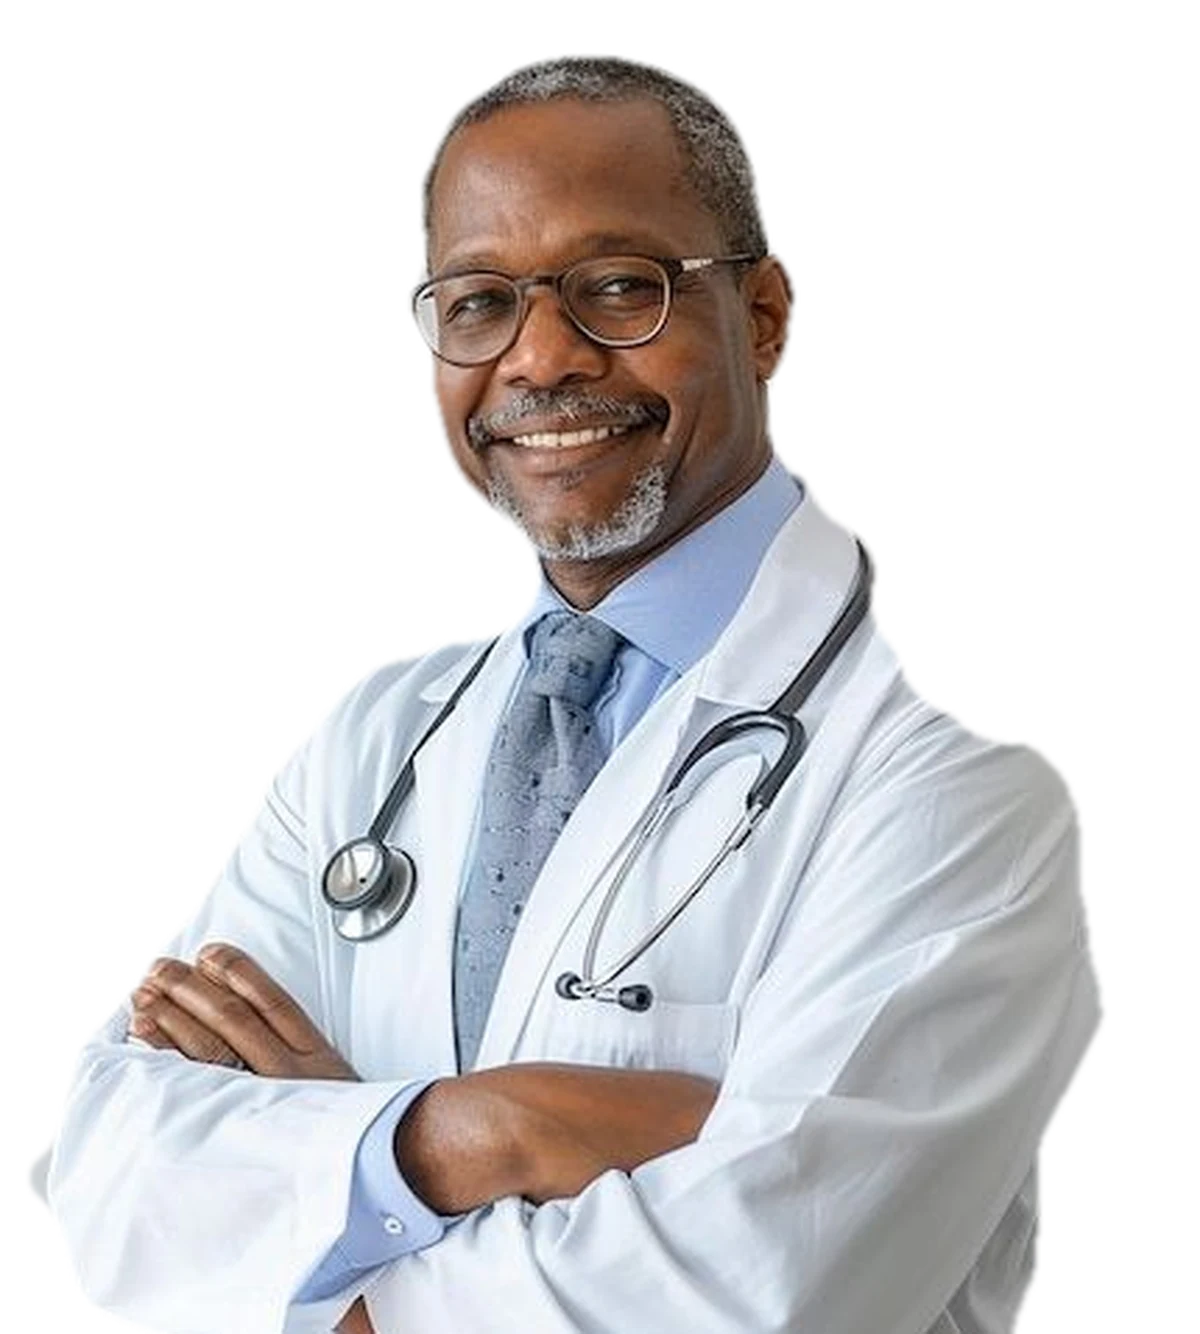
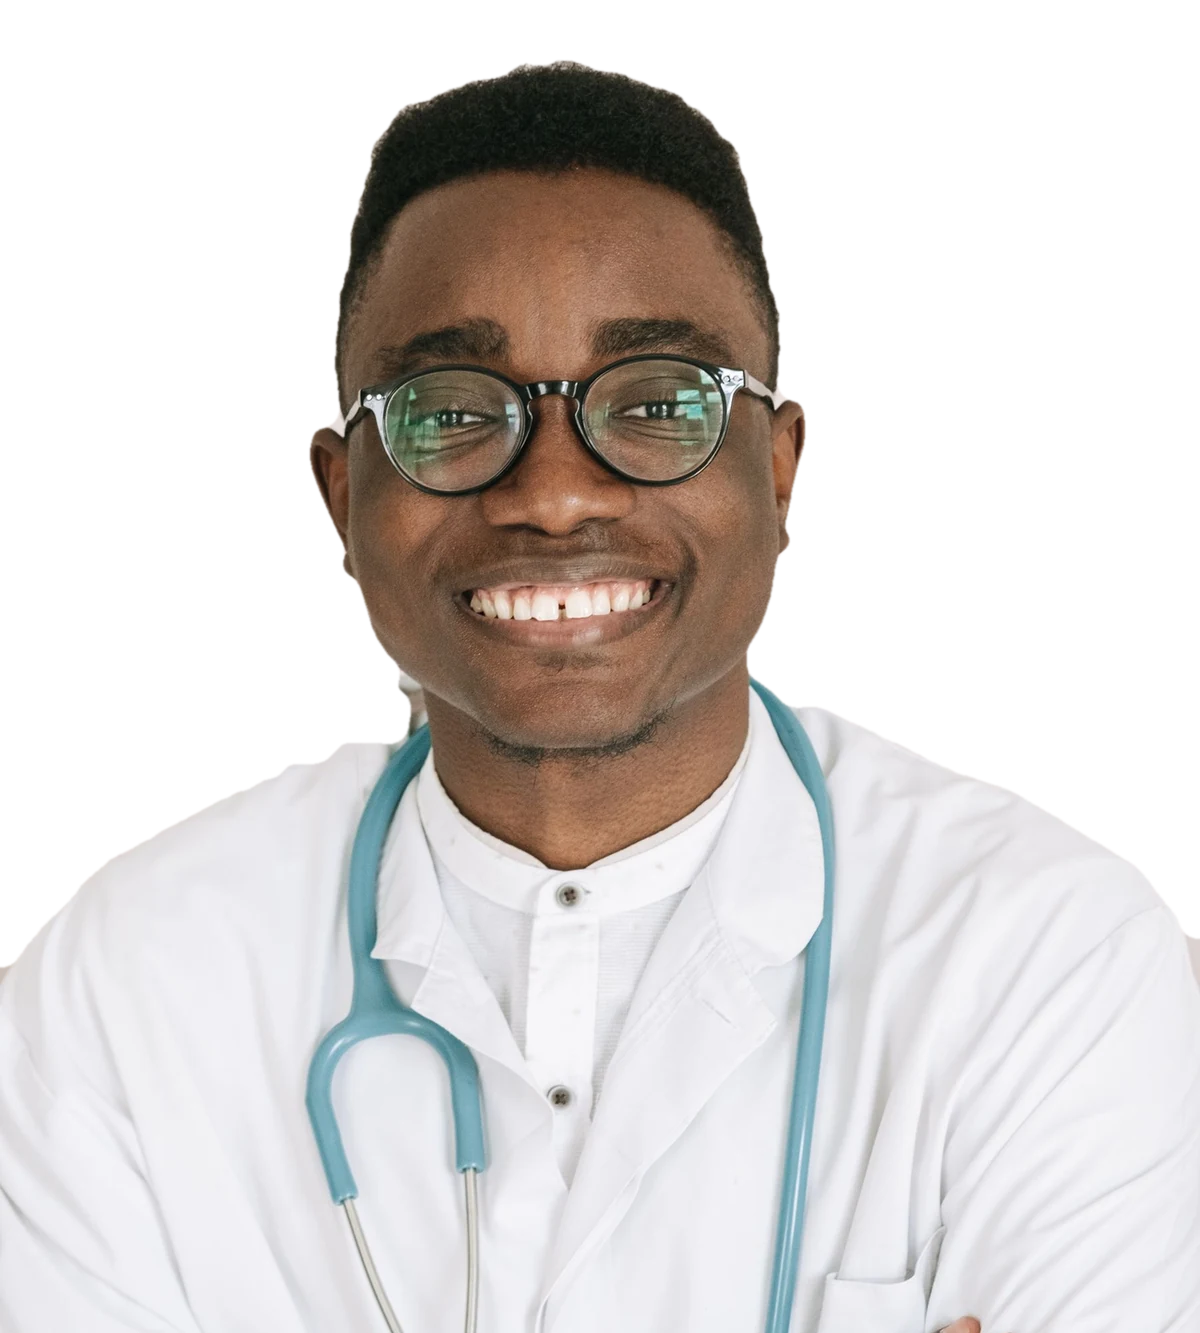
Calendrier a plat, panneau de risque, titres de Mon cycle, dates de l'accueil
Demandes d'Arthur du 13 octobre 2026.

LE CALENDRIER, A PLAT
« J'ai l'impression que tout est lisse et brillant, je veux une page normale. »
Plus de degrades, d'ombres, de halo qui respire, ni de rebonds a l'arrivee.
Icones en aplat (variante `plat` de GoutteJour et BebeJour). La periode
fertile est une bande lilas, le bebe n'est plus que sur le jour d'ovulation,
les autres dates sont ordinaires, sans bande ni couleur.

Arthur avait dit « vert ». Le vert veut dire « risque plus faible » partout
ailleurs (accueil, jauge, avertissement) : le poser sur la periode fertile
aurait inverse son sens. Il a choisi le lilas, deja celui de l'anneau de
Mon cycle.

L'AVERTISSEMENT CONTRACEPTION, REECRIT
Il disait « les jours verts indiquent un risque plus faible » et le calendrier
n'a plus de jours verts. Il dit maintenant que les jours en lilas sont ceux ou
une grossesse est possible, et que les autres jours ne sont pas sans risque.
Obligatoire, toujours sur le calendrier et sur Mon cycle. Les deux morceaux en
gras n'ont pas bouge.

MON CYCLE
Les titres des cartes de dates en grand, les dates en petit. Le risque de
grossesse est un panneau : titre et mot en grand, signal d'alerte, rouge quand
le risque est eleve, orange quand il est moyen, vert doux quand il est faible
(un panneau rouge sur un risque faible ferait crier au loup).

ACCUEIL
Les dates de la bande ouvrent le calendrier sur le jour touche, avec sa fiche.

PHOTO DU MEDECIN HOMME
[…]

diff --git a/src/styles/calendrier.css b/src/styles/calendrier.css
@@ -27,12 +27,12 @@
   --cal-ink: #2a1a2e;
   --cal-muted: #9a8c9d;
   --cal-line: #f1e6eb;
-  --rayon-carte: 30px;
-  --ombre-carte: 0 18px 40px -18px rgba(150, 40, 80, 0.28), 0 2px 6px rgba(150, 40, 80, 0.06);
+  --rayon-carte: 22px;
+  --ombre-carte: none;
   --hauteur-case: 56px;
   --ressort: cubic-bezier(0.34, 1.56, 0.64, 1);
 
-  background: #fcf1f4;
+  background: var(--fond);
   color: var(--cal-ink);
   min-height: 100vh;
 }
@@ -52,12 +52,7 @@
   padding: 12px 14px;
   border-radius: 20px;
   background: var(--cal-card);
-  box-shadow: 0 6px 18px -12px rgba(150, 40, 80, 0.35);
-  animation: cal-monte 0.5s ease both;
-}
-
-.cal-resume-carte:nth-child(2) {
-  animation-delay: 0.08s;
+  border: 1px solid var(--cal-line);
 }
 
 .cal-resume-carte svg {
@@ -93,9 +88,8 @@
   padding: 20px 14px 18px;
   border-radius: var(--rayon-carte);
   background: var(--cal-card);
-  box-shadow: var(--ombre-carte);
+  border: 1px solid var(--cal-line);
   overflow: hidden;
-  animation: cal-monte 0.55s 0.1s ease both;
 }
 
 .cal-marque {
@@ -132,13 +126,13 @@
   height: 44px;
   border: none;
   border-radius: 50%;
-  background: #fbf3f6;
+  background: var(--surface-douce);
   color: var(--cal-ink);
   cursor: pointer;
 }
 
 .cal-fleche:hover {
-  background: #f6e9ef;
+  background: var(--cal-line);
 }
 
 .cal-jours-noms {
@@ -184,18 +178,7 @@
   z-index: 2;
   display: grid;
   place-items: center;
-  animation: cal-pop 0.45s var(--ressort) both;
 }
-
-/* Le décalage en cascade, sans attribut style : une règle par colonne de la
-   grille suffit à donner l'impression d'une vague. */
-.cal-grille > *:nth-child(7n + 1) .cal-icone { animation-delay: 20ms; }
-.cal-grille > *:nth-child(7n + 2) .cal-icone { animation-delay: 40ms; }
-.cal-grille > *:nth-child(7n + 3) .cal-icone { animation-delay: 60ms; }
-.cal-grille > *:nth-child(7n + 4) .cal-icone { animation-delay: 80ms; }
-.cal-grille > *:nth-child(7n + 5) .cal-icone { animation-delay: 100ms; }
-.cal-grille > *:nth-child(7n + 6) .cal-icone { animation-delay: 120ms; }
-.cal-grille > *:nth-child(7n + 7) .cal-icone { animation-delay: 140ms; }
 
 .cal-num {
   position: relative;
@@ -212,11 +195,6 @@
   display: block;
   width: 36px;
   height: 43px;
-  filter: drop-shadow(0 3px 4px rgba(160, 15, 35, 0.25));
-}
-
-.goutte-prevue {
-  filter: none;
 }
 
 .bebe {
@@ -240,7 +218,7 @@
   color: var(--fertile);
   font-size: 10px;
   font-weight: 700;
-  box-shadow: 0 1px 4px rgba(90, 50, 160, 0.25);
+  border: 1px solid var(--fertile-soft);
 }
 
 .halo {
@@ -248,7 +226,10 @@
   animation: cal-halo 2.2s ease-in-out infinite;
 }
 
-/* --- La bande verte des jours à risque faible ---------------------------- */
+/* --- La bande lilas de la période fertile -------------------------------
+   Demande d'Arthur du 13 octobre 2026 : la couleur seulement sur la période
+   fertile, le bébé seulement le jour de l'ovulation, et toutes les autres
+   dates ordinaires, sans rien de distinctif. */
 .bande {
   position: absolute;
   z-index: 1;
@@ -256,7 +237,10 @@
   bottom: 7px;
   left: 0;
   right: 0;
-  background: var(--safe);
+}
+
+.bande-fertile {
+  background: var(--fertile-soft);
 }
 
 .bande-debut {
@@ -275,8 +259,9 @@
   border-radius: 999px;
 }
 
-.jour-faible .cal-num {
-  color: var(--safe-ink);
+.jour-fertile .cal-num {
+  color: #4f35a8;
+  font-weight: 700;
 }
 
 /* --- Aujourd'hui --------------------------------------------------------- */
@@ -348,7 +333,7 @@
   height: 16px;
   flex: none;
   border-radius: 999px;
-  background: var(--safe);
+  background: var(--fertile-soft);
 }
 
 /* --- L'avertissement, qui ne se retire pas ------------------------------- */
@@ -363,7 +348,6 @@
   color: #6b5420;
   font-size: 13px;
   line-height: 1.45;
-  animation: cal-monte 0.5s 0.25s ease both;
 }
 
 .cal-avertissement b {
@@ -424,7 +408,7 @@
 
 .fond-regles { background: #ffe9ed; }
 .fond-fertile { background: var(--fertile-soft); }
-.fond-faible { background: var(--safe); }
+.fond-faible { background: #f1ecef; }
 
 .cal-fiche-date {
   font-family: var(--titre);
@@ -440,7 +424,7 @@
 
 .texte-regles { color: var(--blood); }
 .texte-fertile { color: var(--fertile); }
-.texte-faible { color: var(--safe-ink); }
+.texte-faible { color: var(--cal-ink); }
 
 .cal-risque {
   margin-bottom: 12px;
@@ -495,7 +479,6 @@
   font-size: 16px;
   font-weight: 700;
   cursor: pointer;
-  box-shadow: 0 10px 22px -10px rgba(224, 30, 58, 0.7);
 }
 
 .cal-bouton:active {
@@ -503,9 +486,8 @@
 }
 
 .cal-bouton-pale {
-  background: #fbf3f6;
+  background: var(--surface-douce);
   color: var(--cal-muted);
-  box-shadow: none;
   cursor: not-allowed;
 }
 
@@ -545,10 +527,6 @@
 }
 
 @media (prefers-reduced-motion: reduce) {
-  .cal-icone,
-  .cal-resume-carte,
-  .cal-carte,
-  .cal-avertissement,
   .cal-case.aujourdhui::after,
   .halo,
   .cal-voile,

diff --git a/src/lib/cycle-calcul.ts b/src/lib/cycle-calcul.ts
@@ -269,8 +269,17 @@ export function alertesSante(o: ObservationsSante): Alerte[] {
  * L'avertissement sur la contraception.
  *
  * Il est obligatoire et ne se retire pas. Demande expresse d'Arthur, et c'est
- * une question de santé : un calendrier qui colore des jours en vert sans cette
- * phrase se lit comme une méthode de contraception, ce qu'il n'est pas.
+ * une question de santé : un calendrier qui marque des jours comme fertiles
+ * sans cette phrase se lit comme une méthode de contraception, ce qu'il n'est
+ * pas.
+ *
+ * Réécrit le 13 octobre 2026. Il disait « les jours verts indiquent un risque
+ * plus faible » ; le calendrier n'a plus de jours verts (la période fertile y
+ * est en lilas, les autres dates sont ordinaires). La nouvelle phrase ne
+ * dépend plus d'une couleur, et elle dit l'essentiel : les jours qui ne sont
+ * pas marqués ne sont PAS sans risque. Les deux morceaux mis en gras par les
+ * écrans (« n'est pas une méthode de contraception fiable » et « utilise une
+ * contraception adaptée ») n'ont pas bougé.
  */
 export const AVERTISSEMENT_CONTRACEPTION =
-  "Les jours verts indiquent un risque plus faible, mais ce calcul n'est pas une méthode de contraception fiable, surtout si ton cycle est irrégulier. Pour éviter une grossesse, utilise une contraception adaptée.";
+  "Les jours en lilas sont ceux où une grossesse est possible, mais les autres jours ne sont pas sans risque : ce calcul n'est pas une méthode de contraception fiable, surtout si ton cycle est irrégulier. Pour éviter une grossesse, utilise une contraception adaptée.";

diff --git a/LA-REFONTE.md b/LA-REFONTE.md
@@ -274,12 +274,36 @@ brune, le reste tel quel, la fleur du logo à la place de la croix). Outils :
 gardée : un emblème proche de la croix rouge est protégé par les Conventions de
 Genève, dont le Burkina Faso est signataire. La fleur du logo est à la place.
 
-**Les photos du panneau « médecin ».** Trois personnes différentes : la femme
-au stéthoscope, l'homme que tu as envoyé, et une troisième (Pexels). Attention :
-la page dit « le médecin » au singulier. Ce sont des photos d'illustration,
-chacune porte la mention « Illustration », et **la photo de l'homme n'a pas de
-source connue** : dis-moi d'où elle vient, ou remplaçons-la avant la mise en
-ligne (`atelier-motion/images/medecin/LICENCE.md`).
+**Les photos du panneau « médecin ».** Trois personnes différentes : une femme
+au stéthoscope, un homme (la photo que tu avais envoyée n'avait pas de source
+connue, elle a été remplacée par une photo libre, Pexels n° 4989148, et tu m'as
+demandé de la changer encore : Motion prépare des candidats plus âgés), et une
+troisième femme. Attention : la page dit « le médecin » au singulier. Ce sont
+des photos d'illustration, chacune porte la mention « Illustration ». Les
+sources et licences sont dans `atelier-motion/images/medecin/LICENCE.md`.
+
+**Le calendrier, à plat.** Plus de dégradés, d'ombres, de halo qui respire ni
+de rebonds. La période fertile est en lilas (c'est la couleur de l'anneau de
+Mon cycle), le bébé n'est plus que sur le jour d'ovulation, et toutes les
+autres dates sont ordinaires. Tu avais dit « vert » : le vert veut dire
+« risque plus faible » partout dans l'application, le mettre sur les jours
+fertiles aurait inversé son sens, et tu as choisi le lilas. Les jours de règles
+gardent une goutte (plate) : sans elle le calendrier perd sa raison d'être. Dis
+-moi si tu veux la retirer aussi.
+
+**L'avertissement contraception a été réécrit** : il disait « les jours verts
+indiquent un risque plus faible », et il n'y a plus de jours verts. Il dit
+maintenant « les jours en lilas sont ceux où une grossesse est possible, mais
+les autres jours ne sont pas sans risque ». Il reste obligatoire sur le
+calendrier et sur Mon cycle.
+
+**Mon cycle.** Les titres des cartes de dates sont grands et les dates
+petites. Le « Risque de grossesse » est un panneau : titre et mot en grand,
+avec un signal d'alerte (🚨 quand le risque est élevé, ⚠ sinon). Il est rouge
+quand le risque est élevé, orangé quand il est moyen et vert doux quand il est
+faible : un panneau rouge posé sur un risque faible ferait crier au loup.
+
+**Les dates de l'accueil** ouvrent le calendrier sur le jour touché.
 
 ---
 
